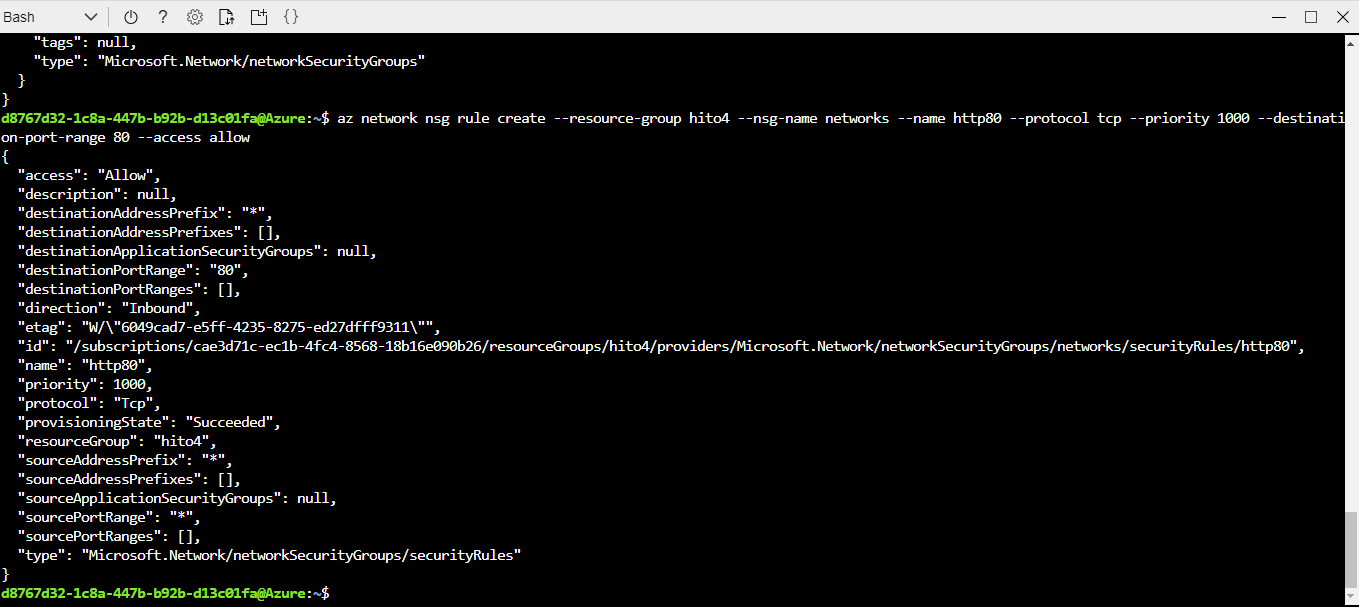
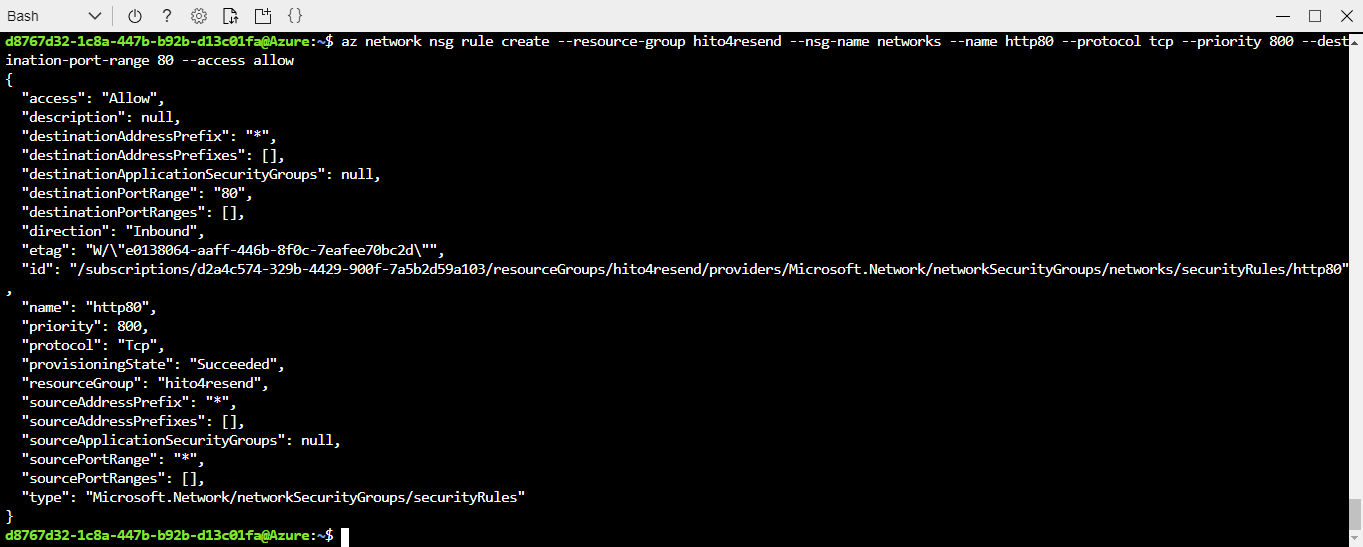
edit my doc

Changed region(s): [[0.0, 0.0, 1.0, 1.0], [0.989, 0.8391, 1.0, 0.9324], [0.989, 0.9945, 1.0, 1.0]]

diff --git a/docs/hito4.md b/docs/hito4.md
@@ -1,16 +1,18 @@
 # Milestone 4
 
 
-In this part the create virtual machine the command line using the Azure CLI tool, The application has been deployed in Azure in a virtual machine with Ubuntu Server 18.04 ,and we used Mongodb in our app  ....
+In this part we will create VM by using the [Azure](https://Azure.microsoft.com) CLI tool, then we will deploye our app on Azure in a virtual machine with [Debian 9](https://www.debian.org/intro/why_debian), and we will add Mongodb into our app ....
 
 
-#### In this part we used Mongodb in Our App..
+#### In this part we are going to use Mongodb in Our App..
 
-  first: we need connect our app with Mongodb but before that we should install mongodb in our app with this line:
+We have to do somethings for using Mongodb : 
+
+  First: we need to connect our app with Mongodb, but before that we should install mongodb with this line:
 
     npm install mongodb --save
 
-now we can connect mongo with app by this lines:
+Now we can connect mongodb with our app by these lines:
 
     var MongoClient=require("mongodb").MongoClient;
 
@@ -18,7 +20,7 @@ now we can connect mongo with app by this lines:
 
     MongoClient.connect(url, { useNewUrlParser: true },function(err,........
 
-second: we used 3 method for dealing with mongodb
+Second: we used 3 method for dealing with mongodb
  
  * add a new profile by this line:
 
@@ -30,26 +32,26 @@ second: we used 3 method for dealing with mongodb
         query={ID:index};*
         db.collection("profiles").deleteOne(query)
 
-* search about a profile by this line:
+* Search about a profile by this line:
 
         query={ID:index};
         db.collection("profiles").find().sort(query).toArray()
 
 
-## Now we can create new VM for deploying our App
+## Now we are going to create a new VM by using command line for deploying our App
 
-#### We used Cloud shell of portal azuer
+#### We are going to use Cloud shell of portal azuer
 
 
 
 ![Computación nube](https://github.com/AbdullahTaher93/CCMYproject/blob/master/docs/image/cli.png)
 
-the first thing we have to do is create the resource group with the following command:
+The first thing we have to do That create the resource group with the following command:
 
-    az  group create --name hito4 --location francecentral
+    az  group create --name hito4resend --location francecentral
 
 
-In this case we we choose data center of france central because it has the best Average Latency. following [web portal](https://azurespeedtest.azurewebsites.net/) 
+In this case we chose data center of france central because it has the best Average Latency, following [web portal](https://azurespeedtest.azurewebsites.net/) 
 
 
 
@@ -62,13 +64,13 @@ After running the command of create group the result will be:
 
 
 #
-Next,we created the network security group of our virtual machine
+Next, we are going to create the network security group of our virtual machine
 following command:
 
-       az network nsg create --resource-group hito4 --location francecentral --name networks
+       az network nsg create --resource-group hito4resend --location francecentral --name networks
 
 
-result will be:
+The result will be:
 
 
 
@@ -79,38 +81,87 @@ result will be:
 Then we should open Port 80 with command:
 
 
-    az network nsg rule create --resource-group hito4 --nsg-name networks --name http80 --protocol tcp --priority 800 --destination-port-range 80 --access allow
+    az network nsg rule create --resource-group hito4resend --nsg-name networks --name http80 --protocol tcp --priority 800 --destination-port-range 80 --access allow
 
 
 
 
-![Computación nube](https://github.com/AbdullahTaher93/CCMYproject/blob/master/docs/image/createnetwork2.png)
+![Computación nube](https://github.com/AbdullahTaher93/CCMYproject/blob/master/docs/image/runVMcli.png)
 
 
 
 
 
 #
-then, we can create and run  our virtual machine we indicate image, user, static ip and we indicate that it belongs to the network security group created previously that with command:
+Next, we can create and run  our virtual machine, we are going to indicate image of os, user, static ip and we indicate that it belongs to the network security group is created previously that with command:
 
-     az vm create --resource-group hito4 --name MyProject --image Canonical:UbuntuServer:18.04-LTS:latest --admin-username abdullahtaher --admin-password mypassword --public-ip-address-allocation static --nsg networks
+     az vm create --resource-group hito4resend --name Myproject --image credativ:Debian:9:latest --admin-username abdullahtaher --admin-password mypassword --public-ip-address-allocation static -- nsg networks
+
+   ![Computación nube](https://github.com/AbdullahTaher93/CCMYproject/blob/master/docs/image/createnetwork2.png)
+
+
 
 its configuration:
    
-   1. OS: Ubuntu Server 18.04 
+   1. OS: Debian9 
    2. Region: France Central.
    3. Authentication:password.
-   4. user : AbdullahTaher
+   4. user : abdullahtaher
    5. Ip address: static
-   6. Open ports: HTTP (80).
+   6. ports: HTTP (80).
 
-   We used Ubuntu Server 18.04 operating system,because it is the latest version of Ubuntu Server and because it brings NodeJS already.
 
-finally, now we can deploy our project on the new our virtual machine we can do that a same way as in the [previous milestone](https://github.com/AbdullahTaher93/CCMYproject/blob/master/docs/Hito3.md) 
 
-### Checking the deployment
+## Why Debian?!
 
-To check if the application is working correctly, its IP has been accessed through the browser http://40.89.153.174/  and the result will be:
+### Packages well integrated
+Debian surpasses all other distributions in how well its packages are integrated. Since all software is packaged by a coherent group, not only can all packages be found at a single site, but you can be assured that we have already worked out all issues regarding complicated dependencies. While we feel that the deb format has some advantages over the rpm format, it is the integration between the packages that makes a Debian system more robust.
+
+### Source code
+
+
+If you are a software developer, you will appreciate the fact that there are hundreds of development tools and languages, plus millions of lines of source code in the base system. All of the software in the main distribution meets the criteria of the Debian Free Software Guidelines (DFSG). This means that you can freely use this code to study from, or to incorporate into new free software projects. There are also plenty of tools and code suitable for use in proprietary projects.
+   
+
+
+### Easy upgrades
+
+Due to our packaging system, upgrading to a new version of Debian is a snap. Just run apt-get update ; apt-get dist-upgrade (or aptitude update; aptitude dist-upgrade in newer releases)
+
+### Fast and easy on memory
+Other operating systems may be as fast in one or two areas, but being based on GNU/Linux or GNU/kFreeBSD, Debian is lean and mean. Windows software run from GNU/Linux using an emulator sometimes runs faster than when run in the native environment.
+
+[Read more information about Debian](https://www.debian.org/intro/why_debian)
+
+We can find specific [images](https://docs.microsoft.com/en-us/azure/virtual-machines/linux/cli-ps-findimage) of Debian,To find a specific VM image in the Marketplace we can use this line:
+
+             az vm image list --offer Debian --all --output table 
+
+![Computación nube](https://github.com/AbdullahTaher93/CCMYproject/blob/master/docs/image/showVMofDebian.png)
+
+
+### Start with Debian 9
+
+  ![Computación nube](https://github.com/AbdullahTaher93/CCMYproject/blob/master/docs/image/runde.png)
+
+Finally, now we can deploy our project on the new our virtual machine so we can do that a same way as in the [previous milestone](https://github.com/AbdullahTaher93/CCMYproject/blob/master/docs/Hito3.md),we have to [Install](https://tecadmin.net/install-ansible-on-debian-9-stretch/) Ansible on Debian 9, now we can ping our machine after edit hosts file with ansible_host, ansible_ssh_pass and ansible_user that it is located in the  --/etc/ansible/hosts-- and the result will be:
+
+![Computación nube](https://github.com/AbdullahTaher93/CCMYproject/blob/master/docs/image/testwithansible.png)
+
+
+
+
+
+
+
+
+
+
+### Check the App 
+
+To check App if it is working correctly, its IP accessed through the browser http://52.143.152.163/
+
+  and the result will be:
 
 
 
